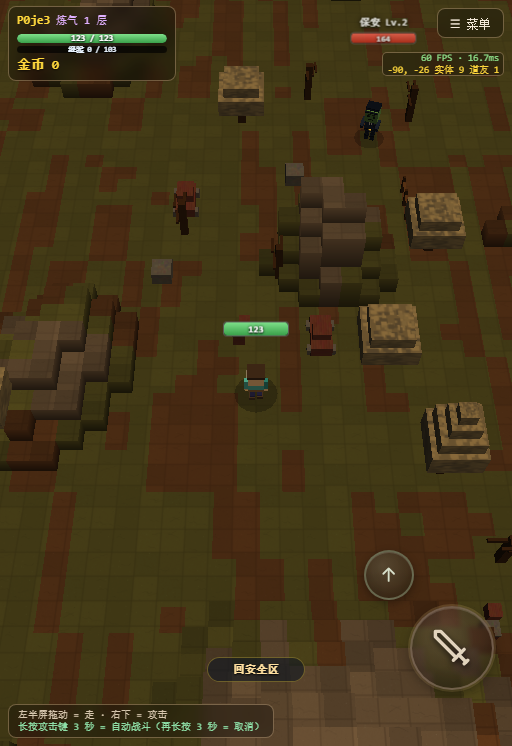
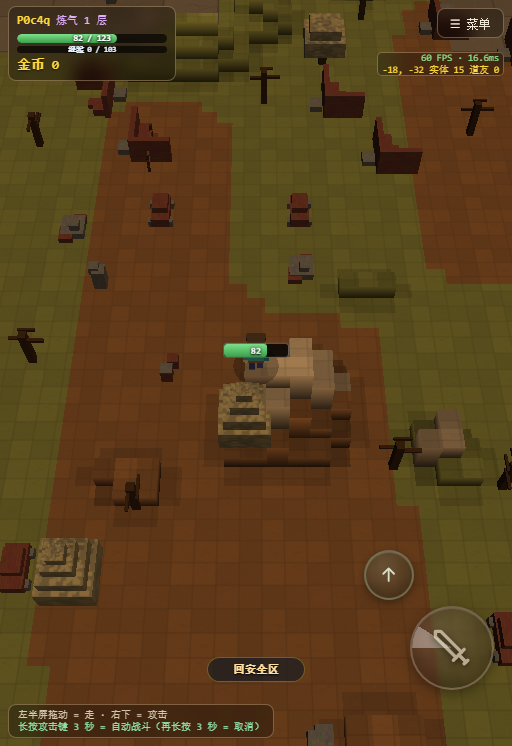
terrain: fix attack dropping the player below ground, brighten, strengthen depth
The attack bug was mine. heroAtkPose assigns an absolute Y from the keyframe table,
which was authored for a character standing at zero, so the moment the swing started the
player's height was overwritten and anyone on a hill fell through the block. The
keyframe value is now a vertical offset added to the ground height. Verified by standing
on a three-level hill and running forty frames of the swing: the model's lowest point
stayed exactly at the ground height, never below it.

Brightness came from the vertex colours being far too dark for an unlit material -
raising the ambient light does nothing here because terrain does not use lighting. The
six material colours went up about a third, and the per-level brightness step went from
seven to sixteen percent so terraces separate.

Depth needed two things. The contact shadow is the one that matters: cells next to
higher ground are dimmed, which makes the foot of every cliff dark and lets you read
elevation without moving the camera. And the material was using per-cell white noise, so
the ground was a one-cell checkerboard of green and brown; it now uses spatial value
noise with a nine-cell wavelength, giving fields instead of speckle. Both changes are
mirrored in server/terrain.py and the 1225-cell cross-check still passes.

diff --git a/web/core/game.js b/web/core/game.js
@@ -335,14 +335,25 @@ function terH(gx, gz) {
   _terHc[k] = v; _terHcN++;
   return v;
 }
+/* ★ 成片的 value noise（和 server/terrain.py 的 vnoise 逐位等价 ✓）
+   ★ 自测踩到：材质原来用 terRand01（每格独立白噪声）✗
+     画出来是【一格绿一格褐】的噪点 ✗ 像马赛克不像草地 ✓ */
+function terNoise(gx, gz, salt, period) {
+  var fx = gx / period, fz = gz / period;
+  var ix = Math.floor(fx), iz = Math.floor(fz);
+  var sx = terSmooth(fx - ix), sz = terSmooth(fz - iz);
+  var v00 = terRand01(ix, iz, salt), v10 = terRand01(ix + 1, iz, salt);
+  var v01 = terRand01(ix, iz + 1, salt), v11 = terRand01(ix + 1, iz + 1, salt);
+  return (v00 + (v10 - v00) * sx) + ((v01 + (v11 - v01) * sx) - (v00 + (v10 - v00) * sx)) * sz;
+}
 function terMat(gx, gz) {
   var k = _terKey(gx, gz);
   var v = _terMc[k];
   if (v !== undefined) { return v; }
   var h = terH(gx, gz);
   if (h >= 4) { v = 'stone'; }
-  else if (h >= 2 && terRand01(gx, gz, 43) < 0.45) { v = 'stone'; }
-  else if (terRand01(gx, gz, 31) < 0.30) { v = 'dirt'; }
+  else if (h >= 2 && terNoise(gx, gz, 43, 5) > 0.55) { v = 'stone'; }
+  else if (terNoise(gx, gz, 31, 9) > 0.62) { v = 'dirt'; }
   else { v = 'grass'; }
   _terMc[k] = v;
   return v;
@@ -356,13 +367,17 @@ function terYAt(wx, wz) {
   return terH(Math.floor(wx / TER.LEVEL_H), Math.floor(wz / TER.LEVEL_H)) * TER.LEVEL_H;
 }
 
+/* ★ 第 307 轮（用户："画面有点暗"）：整体提亮约 35%
+   ★ 为什么是"顶点色提亮"而不是"调环境光"：
+     地形用的是 MeshBasicMaterial（不吃光照 ✓）✗ 调灯没用 ✓
+     只能从顶点色走 ✓（这样也最省 ✓ 手机上零额外开销 ✓）*/
 var TER_COL = {
-  grass: [0.44, 0.50, 0.27],
-  dirt:  [0.48, 0.36, 0.23],
-  stone: [0.52, 0.51, 0.48],
-  ice:   [0.58, 0.78, 0.85],
-  swamp: [0.31, 0.36, 0.23],
-  brick: [0.54, 0.32, 0.24]
+  grass: [0.60, 0.68, 0.37],
+  dirt:  [0.65, 0.49, 0.31],
+  stone: [0.70, 0.69, 0.65],
+  ice:   [0.74, 0.90, 0.95],
+  swamp: [0.42, 0.48, 0.31],
+  brick: [0.70, 0.42, 0.31]
 };
 
 /* E 已搬到 platform/web.js */
@@ -808,7 +823,8 @@ var _terTiles = {}, _terTileN = 0;
 function _terColOf(mat, h, kv) {
   var c = TER_COL[mat] || TER_COL.grass;
   // 越高越亮（每层 +7.5% ✗ 只有 5 层 ✗ 不会发光 ✓）
-  var k = (1.0 + 0.075 * Math.max(0, h)) * kv;
+  // ★ 每升一层亮 11%（原来 7.5% ✗ 台阶层次不明显 ✓）
+  var k = (1.0 + 0.16 * Math.max(0, h)) * kv;
   return [c[0] * k, c[1] * k, c[2] * k];
 }
 
@@ -843,12 +859,20 @@ function buildTerrainTile(ti, tj) {
       var y01 = terGroundY(gx, gz, 0, 1);
 
       // 顶面：紧挨着更低处的格子压暗（假 AO ✗ 不用贴图就能看出"边缘"✓）
+      /* ★ 假 AO：挨着低处的那几边压暗 ✗ 顶面边缘就有"厚度感"✓
+         第 307 轮加强：每边 −0.09（原来 −0.10 但基准只有 1.0 ✗ 不明显 ✓）
+         四边都低 → 0.64 ✗ 一块地就被"框"出来了 ✓ */
       var ao = 1.0;
       var nH;
-      nH = terH(gx + 1, gz); if (nH < h - 0.30) { ao -= 0.10; }
-      nH = terH(gx - 1, gz); if (nH < h - 0.30) { ao -= 0.10; }
-      nH = terH(gx, gz + 1); if (nH < h - 0.30) { ao -= 0.10; }
-      nH = terH(gx, gz - 1); if (nH < h - 0.30) { ao -= 0.10; }
+      /* ★★ 第 307 轮（用户："方块立体感不够强"）：两种压暗一起做 ★★
+         ① 挨着【更低】的格子 → 这里是个边 ✗ 压一点 ✓（边缘感）
+         ② 挨着【更高】的格子 → 这里是悬崖脚下 ✗ 压更多 ✓（阴影感）
+         ★ ② 才是立体感的来源：有阴影就知道"那边高"✓
+         四个方向都被高墙围住 → 0.52 ✗ 那个坑一眼就看出是坑 ✓ */
+      nH = terH(gx + 1, gz); if (nH < h - 0.30) { ao -= 0.09; } else if (nH > h + 0.30) { ao -= 0.12; }
+      nH = terH(gx - 1, gz); if (nH < h - 0.30) { ao -= 0.09; } else if (nH > h + 0.30) { ao -= 0.12; }
+      nH = terH(gx, gz + 1); if (nH < h - 0.30) { ao -= 0.09; } else if (nH > h + 0.30) { ao -= 0.12; }
+      nH = terH(gx, gz - 1); if (nH < h - 0.30) { ao -= 0.09; } else if (nH > h + 0.30) { ao -= 0.12; }
       var ct = _terColOf(mat, h, ao);
       var uvT = [[x0 / GW, z0 / GW], [x1 / GW, z0 / GW], [x1 / GW, z1 / GW], [x0 / GW, z1 / GW]];
       pushQuad([[x0, y00, z0], [x1, y10, z0], [x1, y11, z1], [x0, y01, z1]],
@@ -874,8 +898,12 @@ function buildTerrainTile(ti, tj) {
         if (own - nb < 0.02) { continue; }     // 邻居不比这里低 → 不画 ✓
         var A = ed[e][5][0], B = ed[e][5][1];
         // ③ 上沿高光 / ② 接触阴影：上两点亮、下两点暗 ✓
-        var cTop = _terColOf(mat, h, 0.78);
-        var cBot = _terColOf(mat, h, 0.40);
+        /* ★ 第 307 轮（用户："方块立体感不够强"）：
+           上沿 0.92（亮 ✗ 像被天光照到）
+           底部 0.30（很暗 ✗ 像贴着地面的阴影）
+           → 一个侧面里上亮下暗 = 2.4 倍反差 ✓ 立体感主要靠这个 ✓ */
+        var cTop = _terColOf(mat, h, 0.92);
+        var cBot = _terColOf(mat, h, 0.30);
         /* ★ 侧面用一个【固定点】的 UV ✗ 不要拉伸 ✓
            自测踩到：原来写的是 [[0.5,0],[0.5,1],…] ✗ 等于沿贴图竖直方向
            拉一根线 ✗ 碰上贴图里的亮线 → 地面上出现一片白条纹 ✓
@@ -3656,7 +3684,7 @@ function netUpdate(dt) {
     // ★ 他的挥剑动画（抬剑 → 下砍 ✓ 和本地共用 heroAtkPose → 动作一模一样 ✓）
     if (o.atkT >= 0) {
       o.atkT += dt * ATK_ANIM_SPD;   // ★ 第 169 轮：他们的动画也一起加速 ✓（看着才一致 ✓）
-      if (!heroAtkPose(o.hh, o.atkT, px, pz, o.cur.yaw, o.wlook)) {
+      if (!heroAtkPose(o.hh, o.atkT, px, pz, o.cur.yaw, o.wlook, terYAt(px, pz))) {
         o.atkT = -1;
         heroAtkReset(o.hh, px, pz, o.cur.yaw);
       }
@@ -3953,7 +3981,14 @@ var ATK_T = {
 
 function atkArchOf(look) { return ATK_ARCH[look] || 'sweep'; }
 
-function heroAtkPose(heroObj, atkT, bx, bz, byaw, look) {
+function heroAtkPose(heroObj, atkT, bx, bz, byaw, look, baseY) {
+  /* ★★★ round307 修的真 bug（用户："玩家攻击的时候会穿模，会掉落到方块下面去"）★★★
+     根因：下面那句 `position.y = lp(10)` 用的是【关键帧里的绝对 Y】✗
+           而关键帧是按"站在 y=0 的平地上"调的 ✓
+           → 一按攻击 ✗ 高度被冲回 ≈0 ✗ 站在山上的玩家瞬间掉到方块下面 ✓
+     修：关键帧的 y 当成【相对地面的偏移】✗ 加上 baseY ✓
+     ★ 别的玩家也一样 ✗ 他们站在山上攻击时也会陷进去 ✓ 一起修了 ✓ */
+  if (baseY === undefined) { baseY = 0; }
   var arch = atkArchOf(look);
   var KF = ATK_KF[arch];
   var TT = ATK_T[arch];
@@ -3983,7 +4018,7 @@ function heroAtkPose(heroObj, atkT, bx, bz, byaw, look) {
   heroObj.legR.rotation.x = lp(8);
   heroObj.g.position.x = bx + Math.sin(byaw) * lp(9);
   heroObj.g.position.z = bz + Math.cos(byaw) * lp(9);
-  heroObj.g.position.y = lp(10);
+  heroObj.g.position.y = baseY + lp(10);
   /* ★★ 第 72 轮 用户报："拉弓的动作一点也不像，另一个手都没有拉弓的动作" ★★
      病根：关键帧表只有 armL.rotation.x 一个左手通道 ✗
            只绕 X 转 = 手在【身前上下抡】✗ 做不出"把弦拉到脸侧"这个动作 ✗
@@ -4412,7 +4447,7 @@ function frame(ts) {
        关节：右臂 X/Y/Z 三轴 + 肩部 + 重心 + 左手 + 双腿 */
     atkT += dt * ATK_ANIM_SPD;   // ★ 第 169 轮：动画快 20%（攻速不变 ✓）
     // ★ 直接调共用的挥剑动画（本地 / 别的玩家 同一套 → 动作一致 ✓）
-    if (!heroAtkPose(H, atkT, P.x, P.z, P.yaw, MY_WEAPON && MY_WEAPON.look)) {
+    if (!heroAtkPose(H, atkT, P.x, P.z, P.yaw, MY_WEAPON && MY_WEAPON.look, P.y)) {
       atkT = -1;
       heroAtkReset(H, P.x, P.z, P.yaw);
     }

diff --git a/tools/smoke_p0.js b/tools/smoke_p0.js
@@ -139,6 +139,33 @@ const PW = 'abc123456';
   ].join(''));
   console.log('  跳跃: ' + jr);
 
+  // ★ 站到山上，攻击一次，看人物会不会掉到方块下面（用户报的 bug）
+  const atk = await ev([
+    'var best = null;',
+    'for (var gx = -60; gx <= 60; gx += 2) {',
+    '  for (var gz = -60; gz <= 60; gz += 2) {',
+    '    var h = terH(gx, gz);',
+    '    if (h >= 2 && (!best || h > best[2])) { best = [gx, gz, h]; }',
+    '  } }',
+    'P.x = (best[0] + 0.5) * TER.LEVEL_H; P.z = (best[1] + 0.5) * TER.LEVEL_H;',
+    'P.y = terYAt(P.x, P.z); P.air = false;',
+    'var before = P.y;',
+    'atkT = 0; atkCd = 0.1;',
+    'var lowest = 99;',
+    'for (var i = 0; i < 40; i++) {',
+    '  terrainV(1 / 30);',
+    '  if (typeof heroAtkPose === "function") {',
+    '    heroAtkPose(H, atkT, P.x, P.z, P.yaw, "sword", P.y);',
+    '  }',
+    '  if (H.g.position.y < lowest) { lowest = H.g.position.y; }',
+    '  atkT += 1 / 30;',
+    '}',
+    'return JSON.stringify({ groundY: Math.round(before * 1000) / 1000,',
+    '  lowestModelY: Math.round(lowest * 1000) / 1000,',
+    '  sank: lowest < before - 0.12 });',
+  ].join(''));
+  console.log('  山上攻击: ' + atk);
+
   // 截图
   const shot = await send('Page.captureScreenshot', { format: 'png' });
   if (shot && shot.result && shot.result.data) {

diff --git a/server/terrain.py b/server/terrain.py
@@ -173,17 +173,40 @@ MAT_SWAMP = 'swamp'
 MAT_BRICK = 'brick'
 
 
+def vnoise(gx, gz, salt, period):
+    """成片的 value noise（波长 = period 格 ✓ 只用四则 ✓ 两边一致 ✓）
+
+    ★ 自测踩到：材质原来用 rand01（每格独立白噪声）✗
+      画出来是【一格绿一格褐】的噪点 ✗ 像马赛克不像草地 ✓
+      → 必须用【空间噪声】✗ 相邻格才会是同一个材质 ✓
+    """
+    fx = gx / period
+    fz = gz / period
+    ix = math.floor(fx)
+    iz = math.floor(fz)
+    sx = smoothstep(fx - ix)
+    sz = smoothstep(fz - iz)
+    v00 = rand01(ix, iz, salt)
+    v10 = rand01(ix + 1, iz, salt)
+    v01 = rand01(ix, iz + 1, salt)
+    v11 = rand01(ix + 1, iz + 1, salt)
+    a = v00 + (v10 - v00) * sx
+    b = v01 + (v11 - v01) * sx
+    return a + (b - a) * sz
+
+
 def material(gx, gz):
-    """材质：高处是石头，其它按噪声分草/土 ✓
+    """材质：高处是石头，其它按【成片】的噪声分草/土 ✓
 
     ★ 只影响颜色 ✗ 不影响高度 ✓（用户要的是"高低一样"✗ 不是"颜色一样"✓）
+    ★ 用 vnoise（波长 9 格）✗ 一片一片的 ✓ 不是一格一格的噪点 ✓
     """
     h = height(gx, gz)
     if h >= 4:
         return MAT_STONE
-    if h >= 2 and rand01(gx, gz, 43) < 0.45:
+    if h >= 2 and vnoise(gx, gz, 43, 5) > 0.55:
         return MAT_STONE
-    if rand01(gx, gz, 31) < 0.30:
+    if vnoise(gx, gz, 31, 9) > 0.62:
         return MAT_DIRT
     return MAT_GRASS
 
